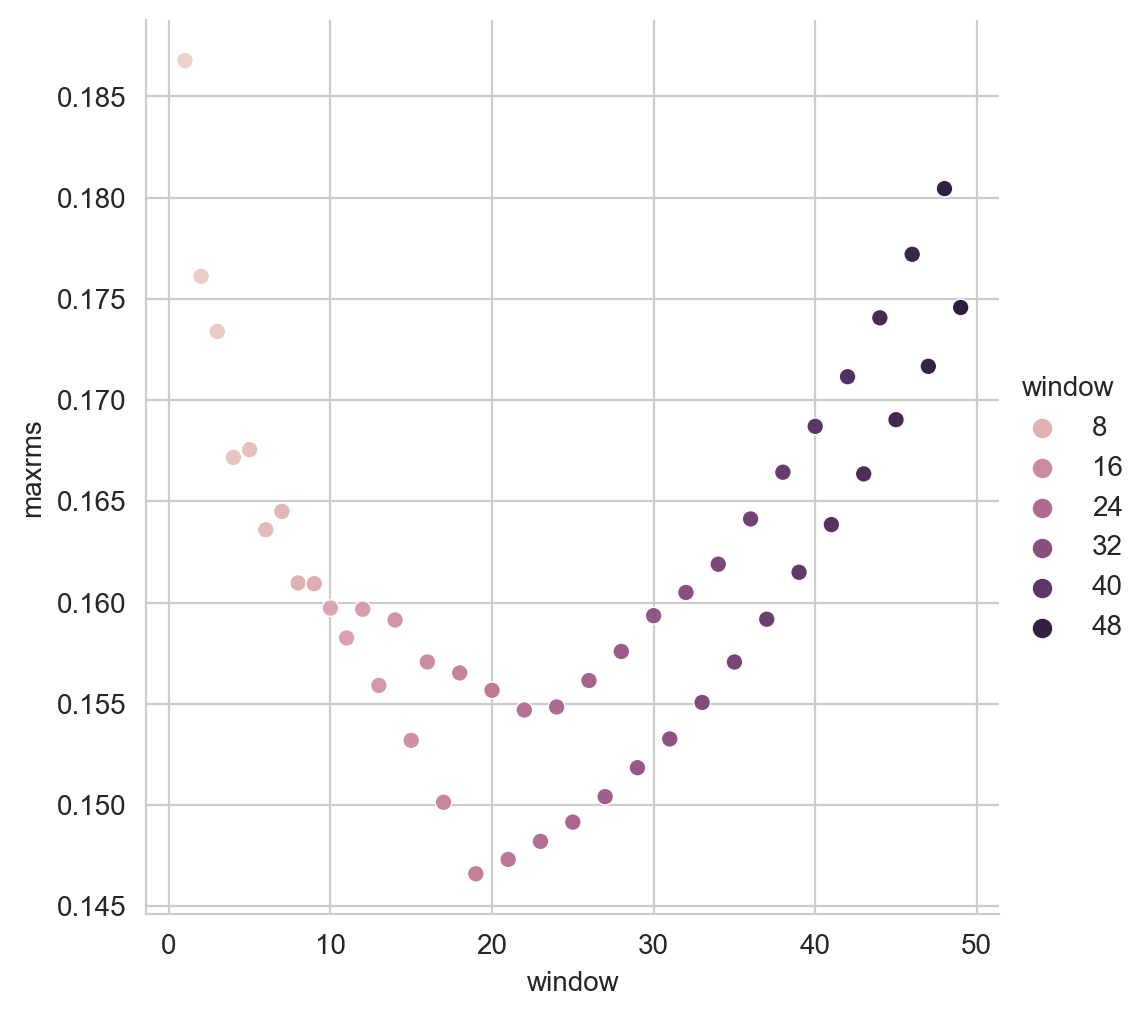
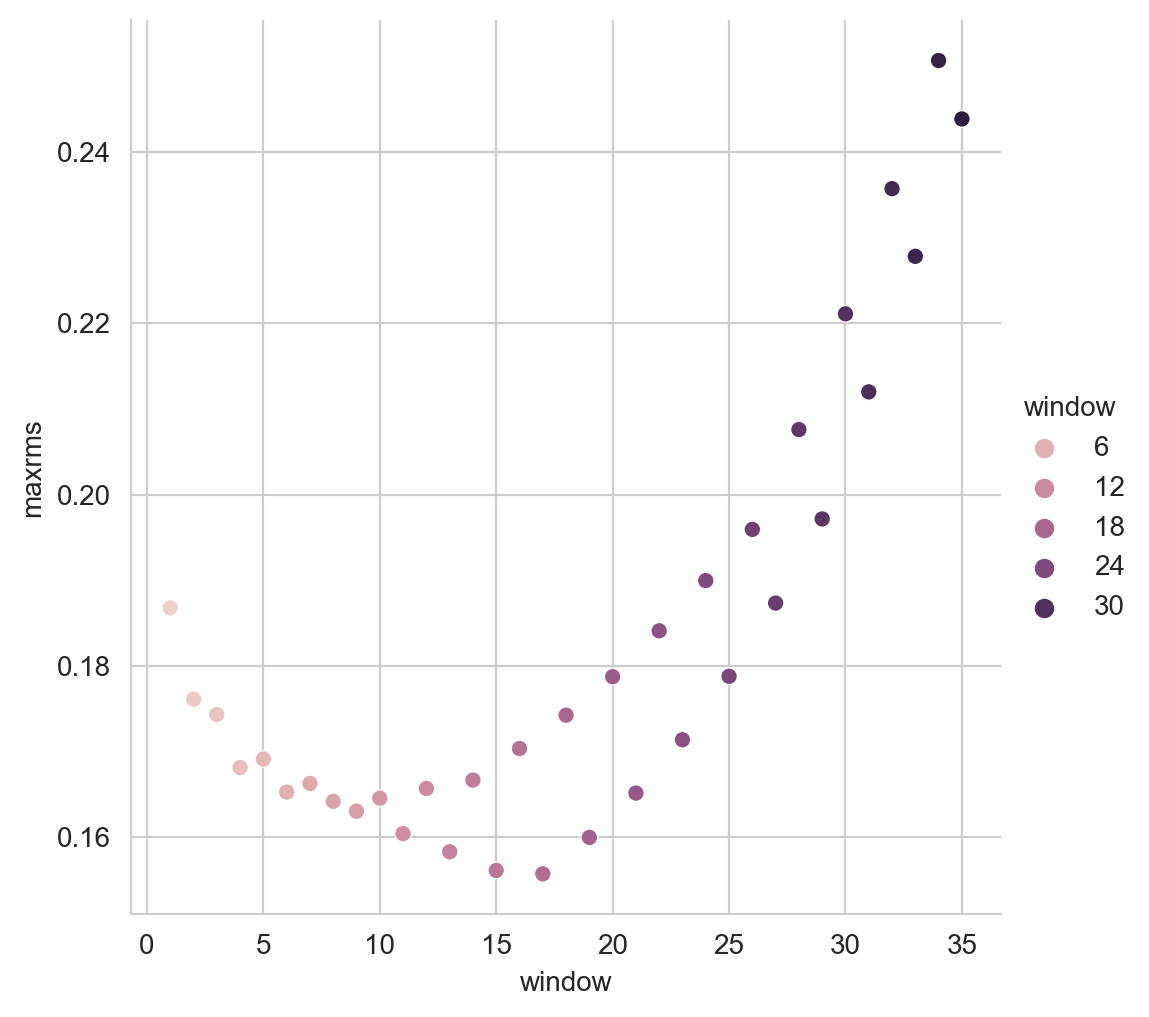
adding historical experiment sliding window results

diff --git a/notebooks/smoothing_investigation.py b/notebooks/smoothing_investigation.py
@@ -6,13 +6,21 @@ import stitches.dev_matchup as matchup
 # plotting aesthetic
 sns.set_style('whitegrid')
 
+# have pandas print all columns in console
+pd.set_option('display.max_columns', None)
+
 # Import the data and select the model to use, I suspect that in the future these will be
 # combined into a single function call.
 data = matchup.cleanup_main_tgav("./stitches/data/created_data/main_tgav_all_pangeo_list_models.csv")
-tgav_data = matchup.select_model_to_emulate("CanESM5", data) # what we will loop over
+tgav_data = matchup.select_model_to_emulate("CanESM5", data)
+
+# investigate how many ensemble members per experiment
+a = tgav_data[['experiment', 'ensemble']].drop_duplicates().copy()
+print(a.groupby('experiment').agg(['count']))
 
 # Calculate the temperature anomaly relative to 1995 - 2014 (IPCC reference period).
-t_anomaly = matchup.calculate_anomaly(tgav_data)
+t_anomaly = matchup.calculate_anomaly(tgav_data).drop('activity', 1)
+
 
 # So it turns out that something funky is going on with the ssp534-over values, it looks like
 # the time series is incomplete for some reason, not really sure what we want to do with that
@@ -23,10 +31,11 @@ t_anomaly = t_anomaly[t_anomaly["experiment"] != "ssp534-over"]
 # Calculate reference anomaly Tgav time series for each experiment = the
 # average across ensemble members for each experiment.
 # want the grouping to be over experiment and year (so that we take the average
-# for each of those), but we group by activity and model
-t_anom_ref = t_anomaly.groupby(['activity', 'model', 'experiment', 'year',
+# for each of those), but we group by  model
+t_anom_ref = t_anomaly.groupby(['model', 'experiment', 'year',
                                 'timestep', 'grid_type','variable']).agg(
         {'value': lambda x: sum(x) / len(x)}).reset_index().rename(columns={'value':'refvalue'}).copy()
+
 
 # plot it
 # seaborn is very similar to using ggplot but it is _so slow_
@@ -43,23 +52,31 @@ p1.savefig('canesm5_ensemble_avg_byScenario.png')
 
 window_rms = pd.DataFrame()
 # loop over window size, smooth the raw data, compare to the ref value via rms, output something
-for windowsize in list(range(1,50)):
+for windowsize in list(range(1, 36)):
+
+    # note that matchup.calculate_rolling_mean appends the historical 1950-2014 data to
+    # the projected 2015-2100 data for each SSP-RCP scenario for smoothing. So Once we
+    # smooth everything, we have to relable the historical years as historical to compare
+    # to the ensemble-averaged reference.
     smoothed_t_anom = matchup.calculate_rolling_mean(t_anomaly, windowsize)
-    # recall that the rolling mean also combines the historical and future time series.
-    # for now, only operate on the SSPRCPs = post 2015
-    smoothed_t_anom = smoothed_t_anom[smoothed_t_anom['year']>=2015].copy()
+
+    # relabel hitorical years as historical,
+    smoothed_t_anom.loc[smoothed_t_anom['year'] < 2015, 'experiment'] = 'historical'
+
+
 
     # join in the reference values
     t_anom = smoothed_t_anom.merge(t_anom_ref,
-                                   on=['model', 'experiment', 'year', 'variable'],
-                                   how = 'left').copy()
+                                   on=['timestep', 'grid_type',
+                                       'model', 'experiment', 'year', 'variable'],
+                                   how='left').copy()
 
     # get the deviations from reference for each value
     t_anom['diff'] = t_anom['value'] - t_anom['refvalue']
 
     # group by ensemble to get an rms summary
     ens_rms = t_anom.groupby(['model', 'experiment', 'ensemble', 'variable',
-                              'activity', 'timestep', 'grid_type']).agg(
+                              'timestep', 'grid_type']).agg(
         {'diff': lambda x: np.sqrt(np.nansum(x*x) / len(x))}).reset_index().rename(
         columns={'diff':'rms'}).copy()
 
@@ -71,7 +88,7 @@ for windowsize in list(range(1,50)):
 
     # Get that max distance:
     ens_rms = ens_rms.groupby(['model', 'variable', #'experiment',
-                              'activity', 'timestep', 'grid_type']).agg(
+                              'timestep', 'grid_type']).agg(
         {'rms': lambda x: max(x)}).reset_index().rename(
         columns={'rms':'maxrms'}).copy()
 
